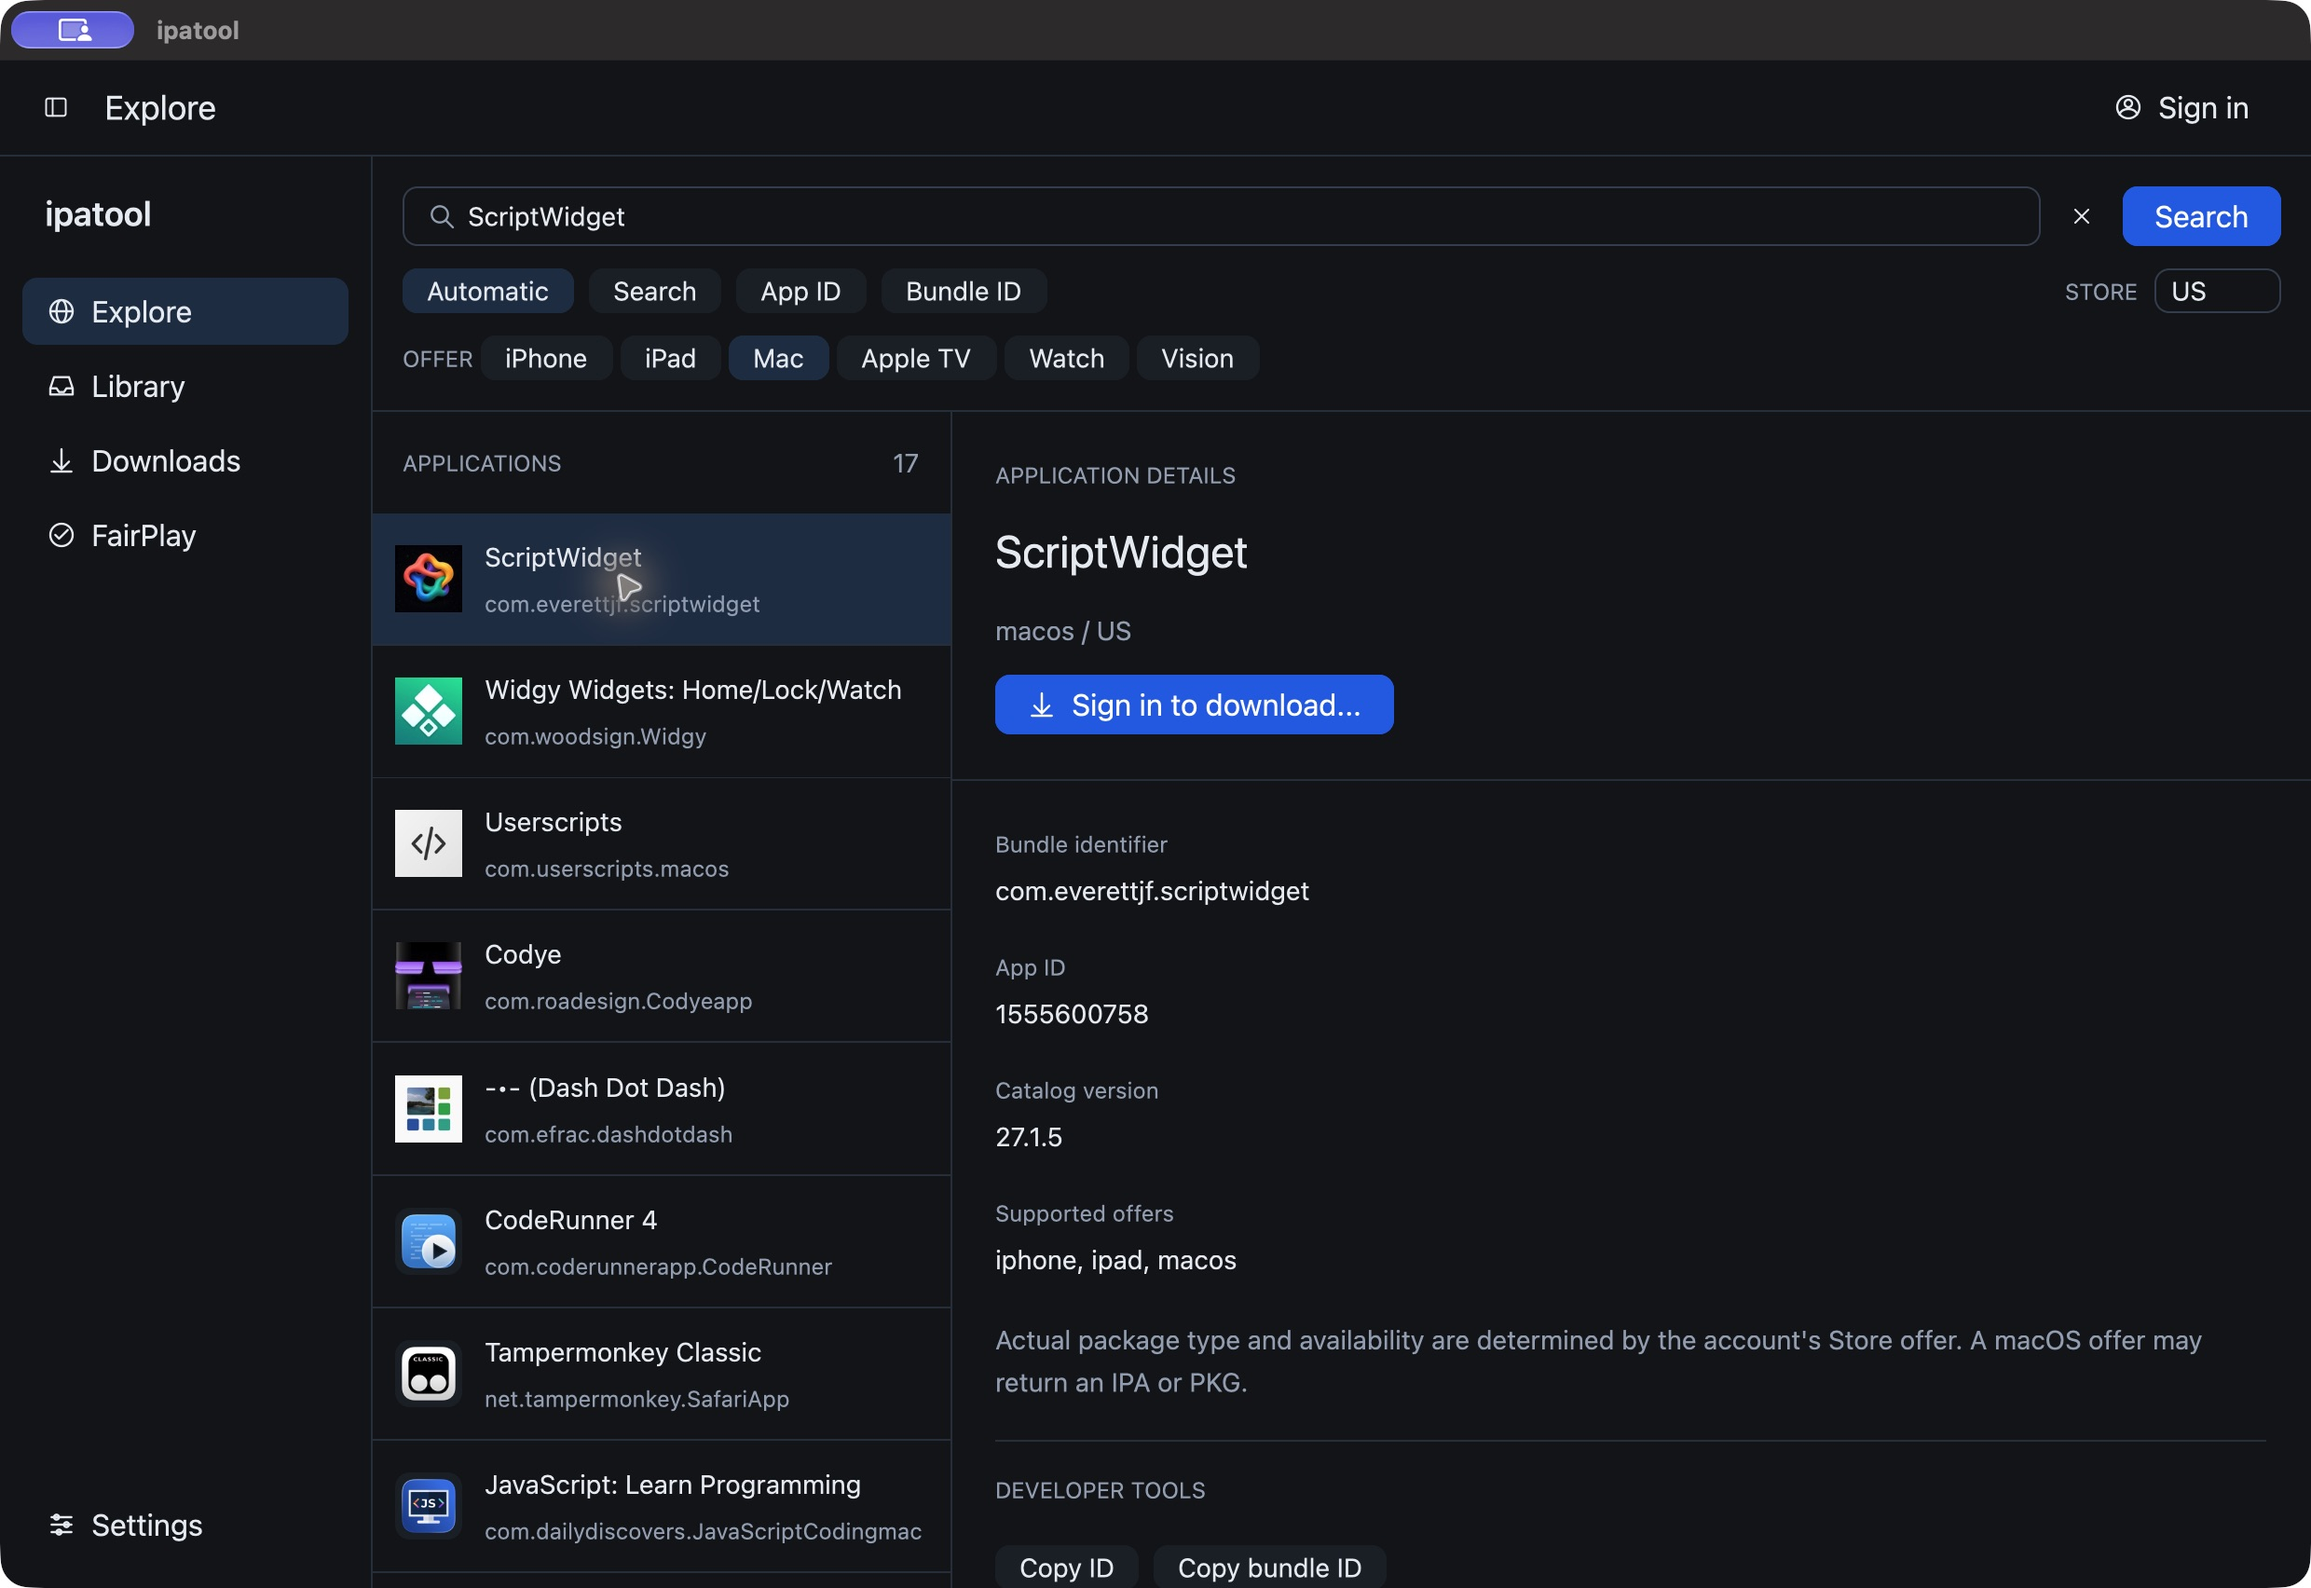
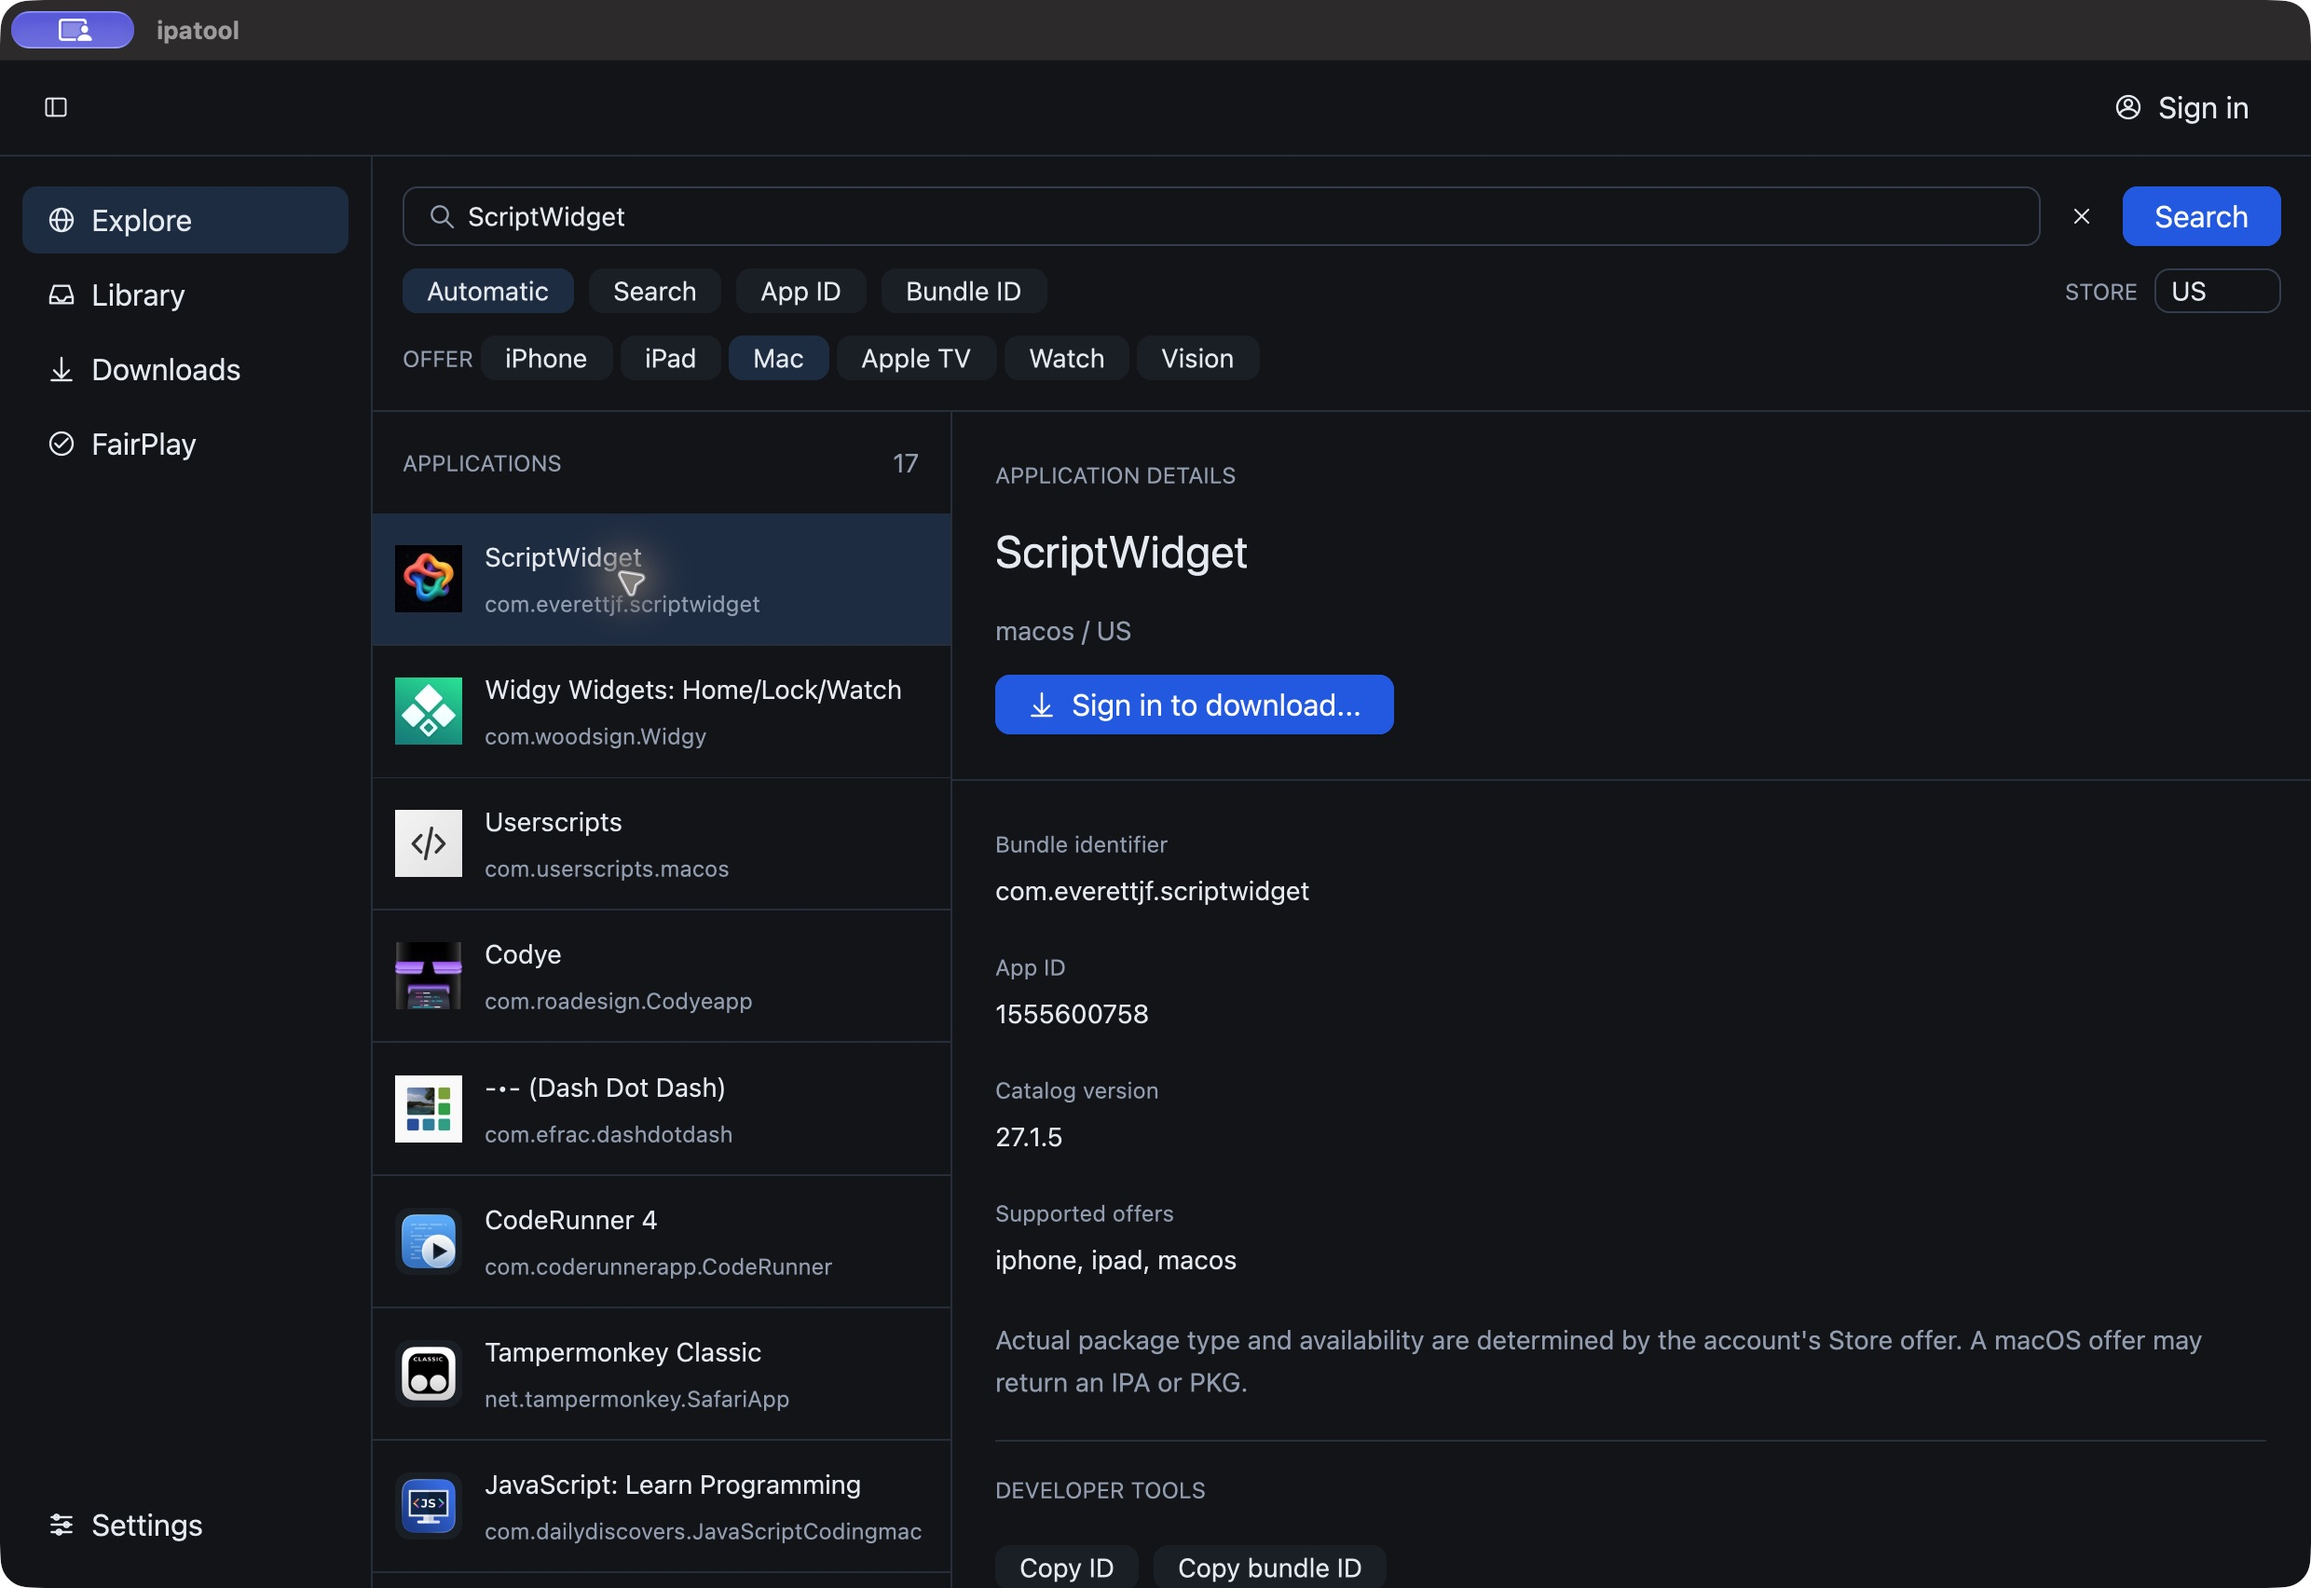
Remove redundant desktop branding and page headings

Changed region(s): [[0.0, 0.0622, 0.1552, 0.2488], [0.031, 0.2799, 0.0931, 0.3421], [0.2484, 0.3421, 0.2794, 0.3732]]

diff --git a/src/gui/main.rs b/src/gui/main.rs
@@ -529,14 +529,6 @@ impl Render for DesktopWindow {
             .gap_1()
             .border_r_1()
             .border_color(cx.theme().border)
-            .child(
-                div()
-                    .text_lg()
-                    .font_weight(FontWeight::SEMIBOLD)
-                    .px_3()
-                    .mb_4()
-                    .child("ipatool"),
-            )
             .children(
                 [
                     Page::Explore,
@@ -631,7 +623,10 @@ impl Render for DesktopWindow {
                                 })),
                         )
                     })
-                    .child(div().text_lg().child(self.page.title()))
+                    .when(
+                        window.viewport_size().width >= px(1000.) && !self.sidebar_visible,
+                        |row| row.child(div().text_lg().child(self.page.title())),
+                    )
                     .when(self.session.is_fixture(), |row| {
                         row.child(
                             div()

diff --git a/docs/screenshots/README.md b/docs/screenshots/README.md
@@ -12,7 +12,7 @@ affected captures.
 
 | Capture | Observed state | Evidence limit |
 | --- | --- | --- |
-| [Explore, refined dark](explore-refined-dark.png) | Signed release app with compact sidebar toggle, aligned navigation, search/clear/download icons, one dark palette, and 17 real public Mac / US results. | Public browsing only; no account operation. |
+| [Explore, refined dark](explore-refined-dark.png) | Signed release app with one app title, no repeated page heading beside visible navigation, compact sidebar toggle, aligned icons/labels, one dark palette, and 17 real public Mac / US results. | Public browsing only; no account operation. |
 | [Explore, dark](explore-dark.png) | Public ScriptWidget search, Mac / US, 17 results; real public artwork; keyboard-selected Widgy details; fixed sign-in/download action. | No account or download was exercised. |
 | [Explore release build, dark](explore-release-dark.png) | Signed release app, real public Mac / US search and artwork; metadata scrolled to the end with all copy actions visible inside the window. | Launch and public browsing evidence only. |
 | [Historical light appearance](explore-light.png) | Superseded appearance option, captured before the dark-only scope decision. | Historical evidence; no longer a supported mode. |

diff --git a/docs/PORTING.md b/docs/PORTING.md
@@ -226,6 +226,9 @@ uses aligned icon/label columns and a compact icon-only toggle; project
 recommendations remain in documentation instead of the workspace. Search has a
 leading icon and compact clear action, account/download actions have icons, and
 selected controls share one blue accent. Old light captures are historical.
+The native window title provides the app name; the sidebar no longer repeats
+that brand. The toolbar shows a page title only when the wide sidebar is hidden,
+so visible navigation identifies the page without another heading.
 The signed release app repeated real Mac/US public search (17 results with public
 artwork), clear-query/result removal, sidebar collapse/restore, Down/Enter/
 Command-W selection retention, and Command-Comma settings checks. The current
